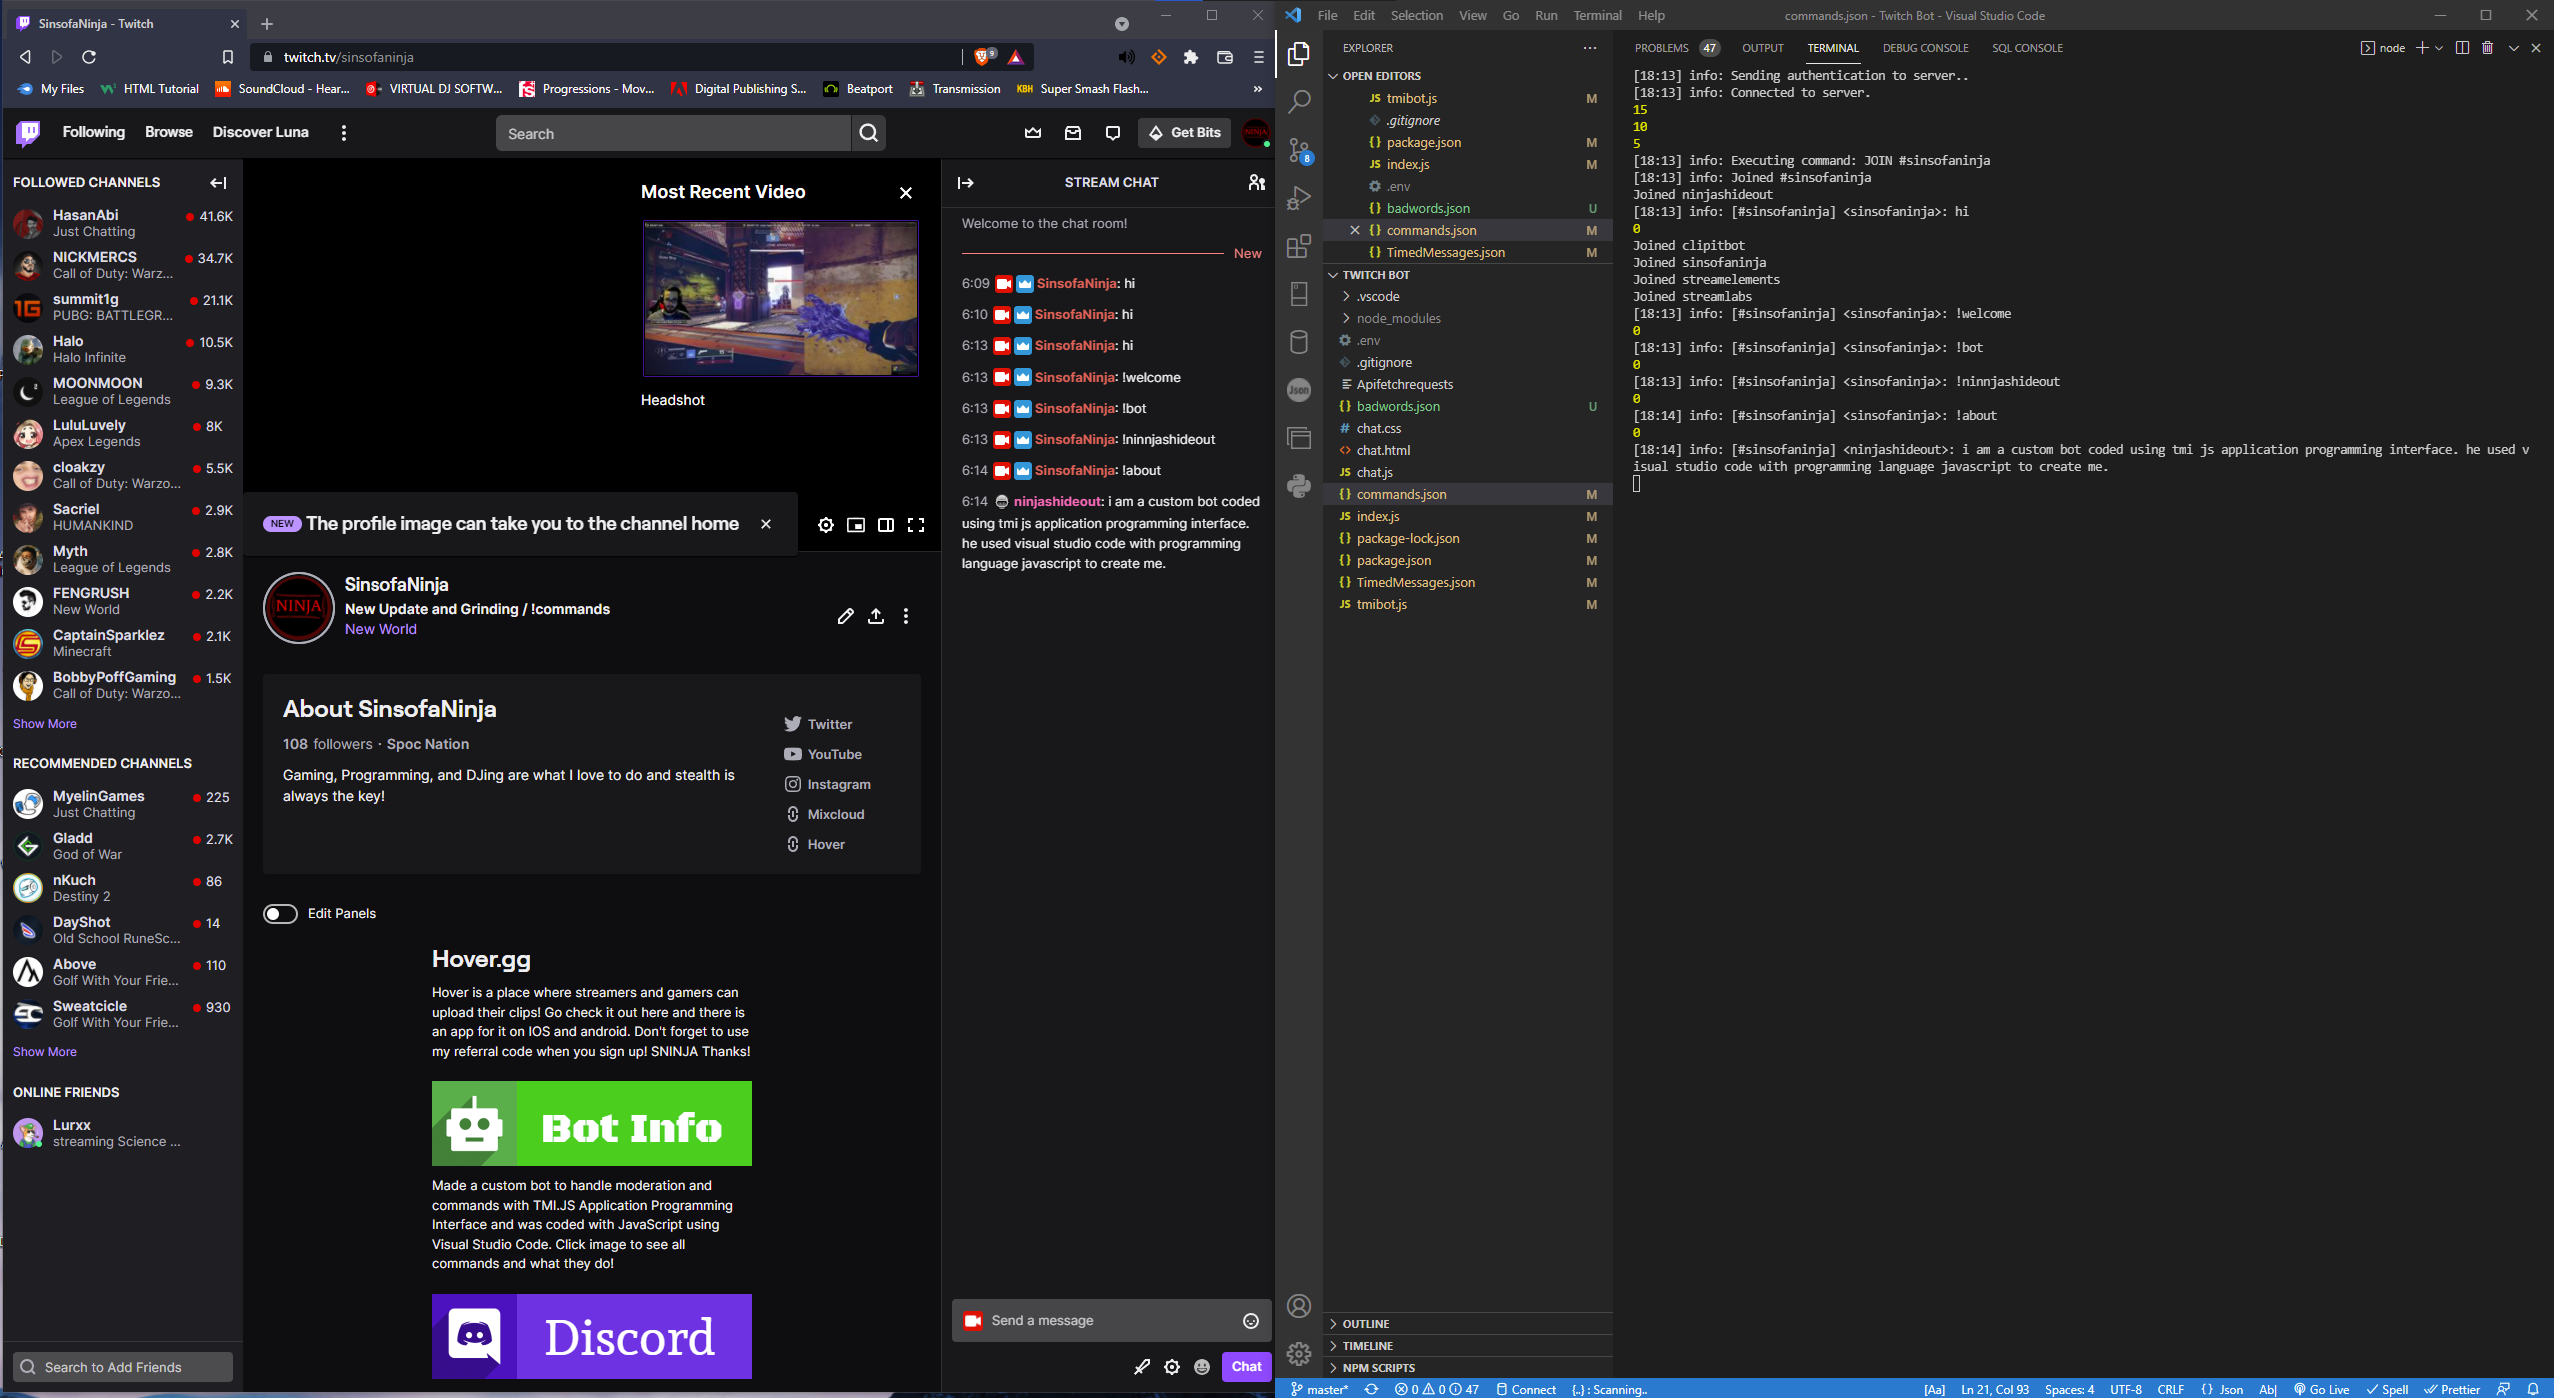
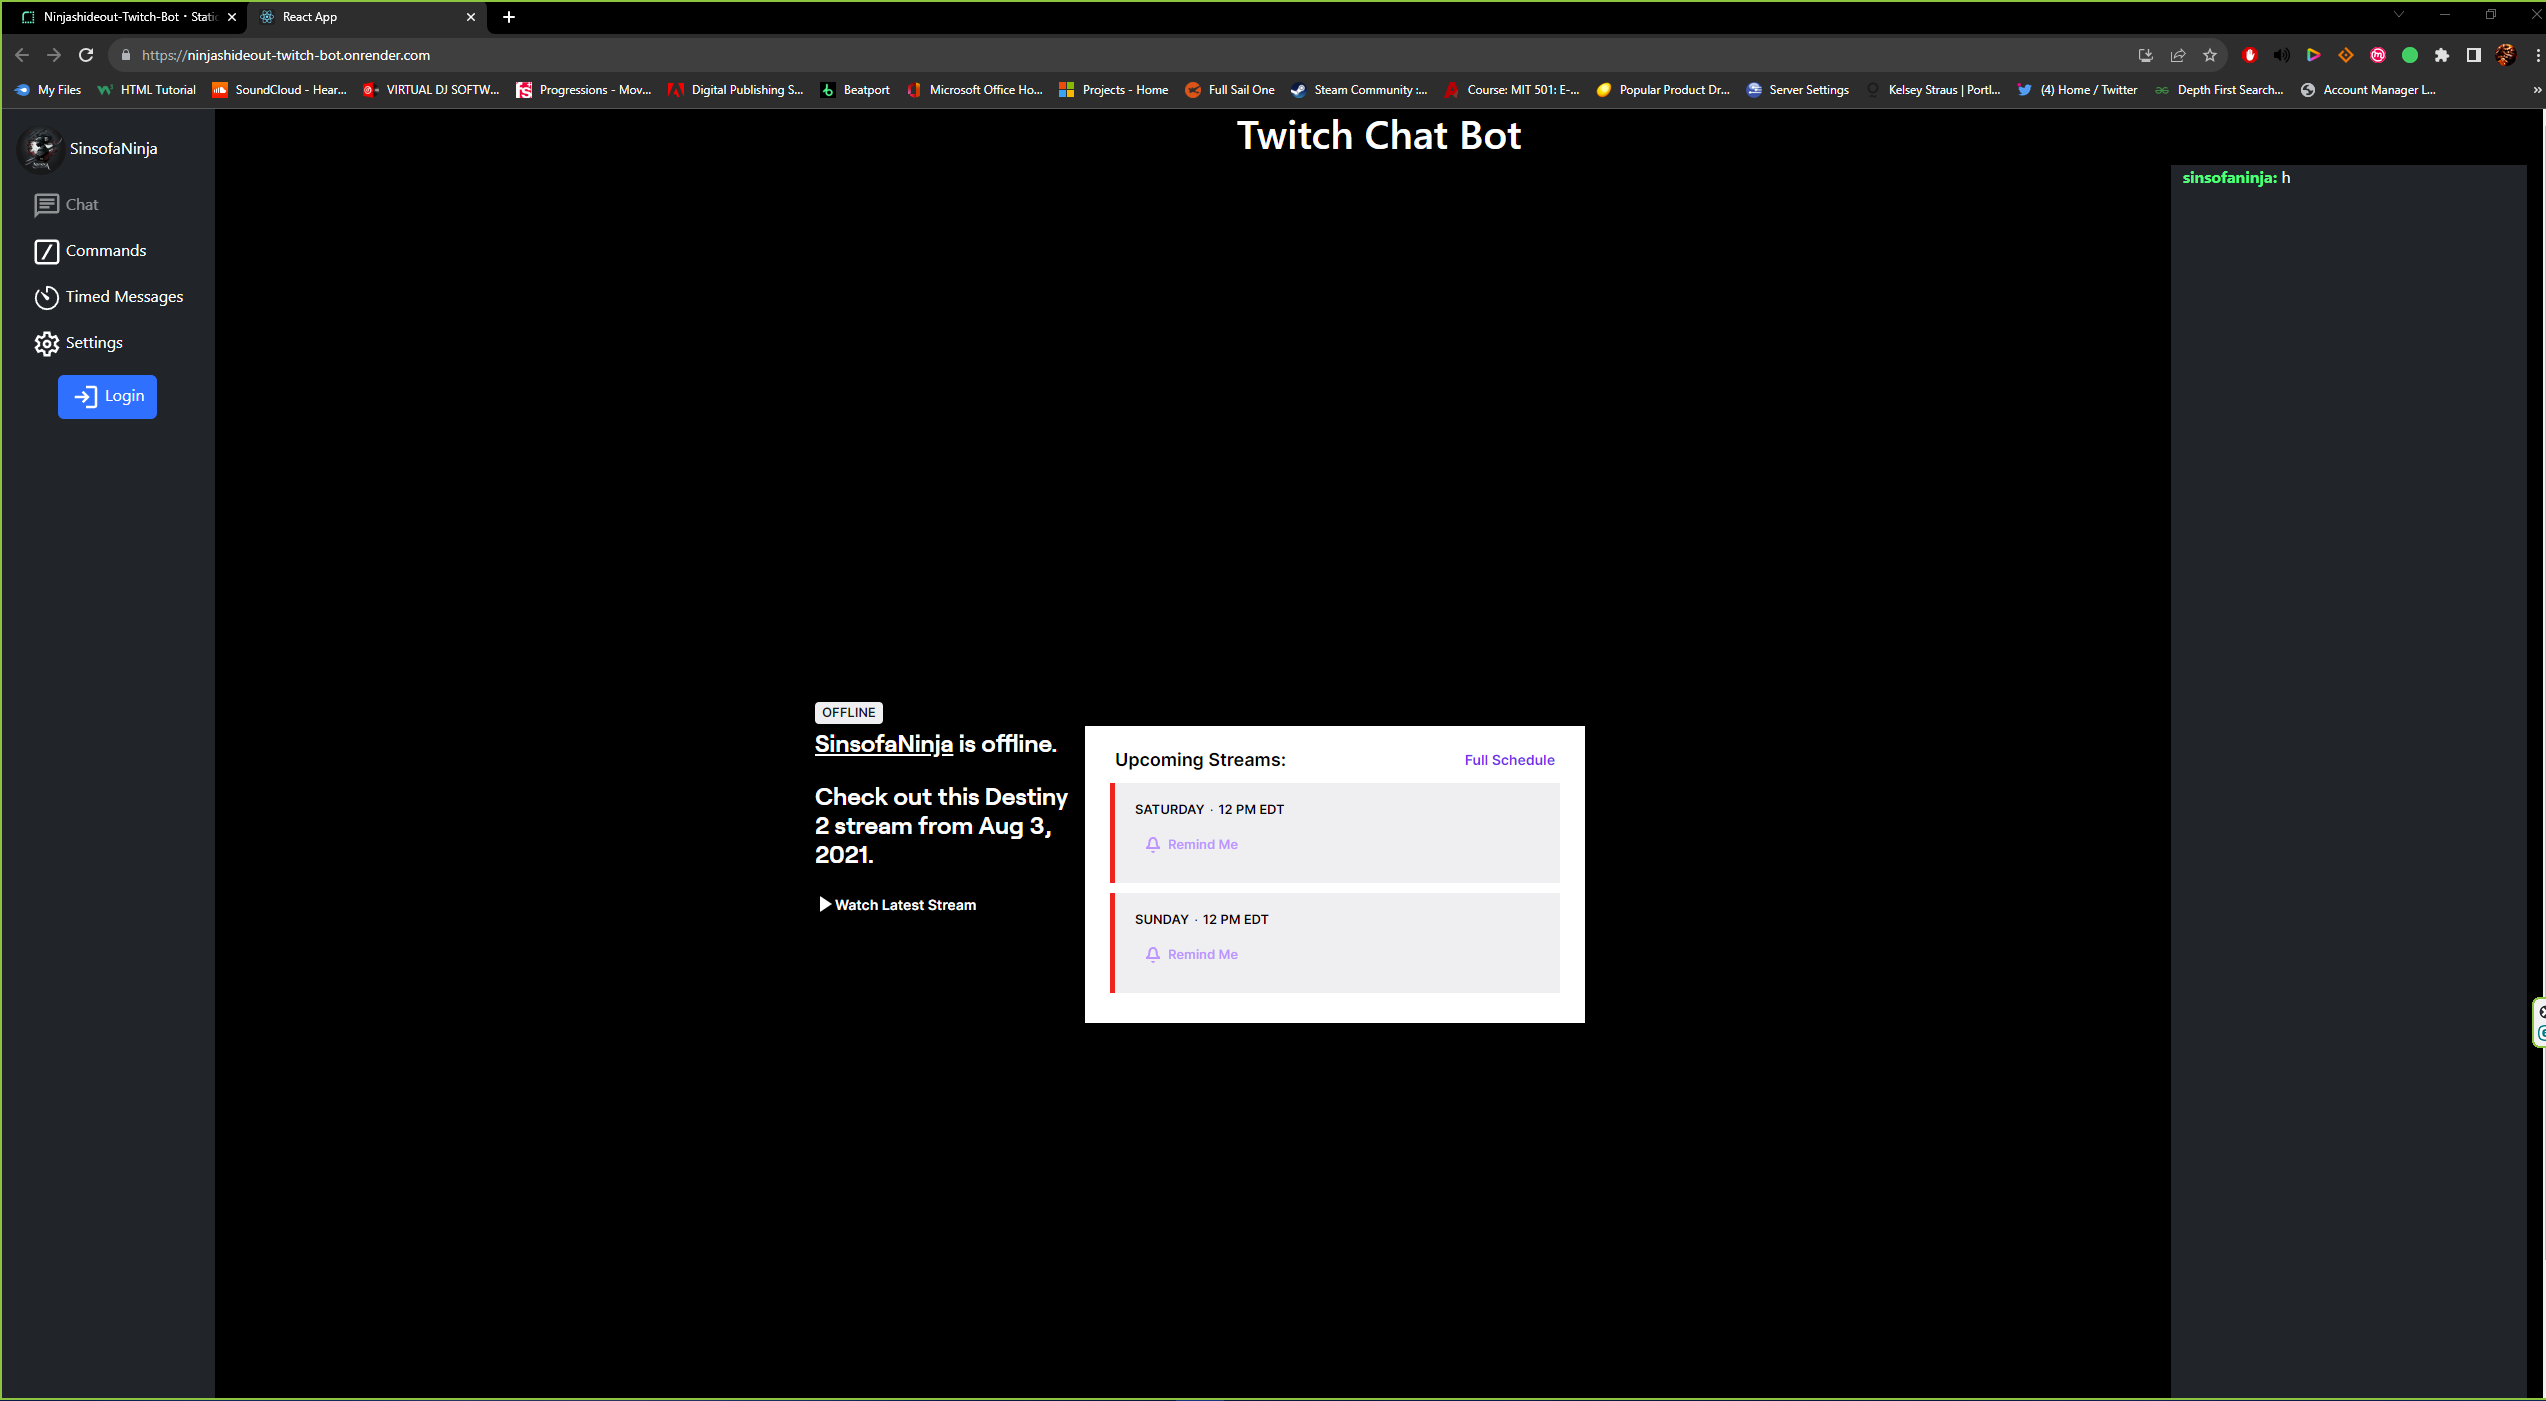
updated about and projects
change image of twitch bot to current website and added links and tech skills to the project.

updated the about me also

diff --git a/src/about.js b/src/about.js
@@ -14,8 +14,9 @@ const About = () => {
         that he has worked on are a Twitch bot with frontend and backend, PGP
         Smart Assist, and helping train car documents through an AI. So far the
         skills that he has picked up are HTML, JavaScript, TypeScript, CSS,
-        React, Angular, etc. His ultimate goal as a developer is to continue to
-        thrive and to have an impact on the world today.
+        React, Angular, etc. He has started to dive deeper in ASP.NET and C#.
+        His ultimate goal as a developer is to continue to thrive and to have an
+        impact on the world today.
       </p>
       <h1>Links</h1>
       <ul className="d-flex list-unstyled">
